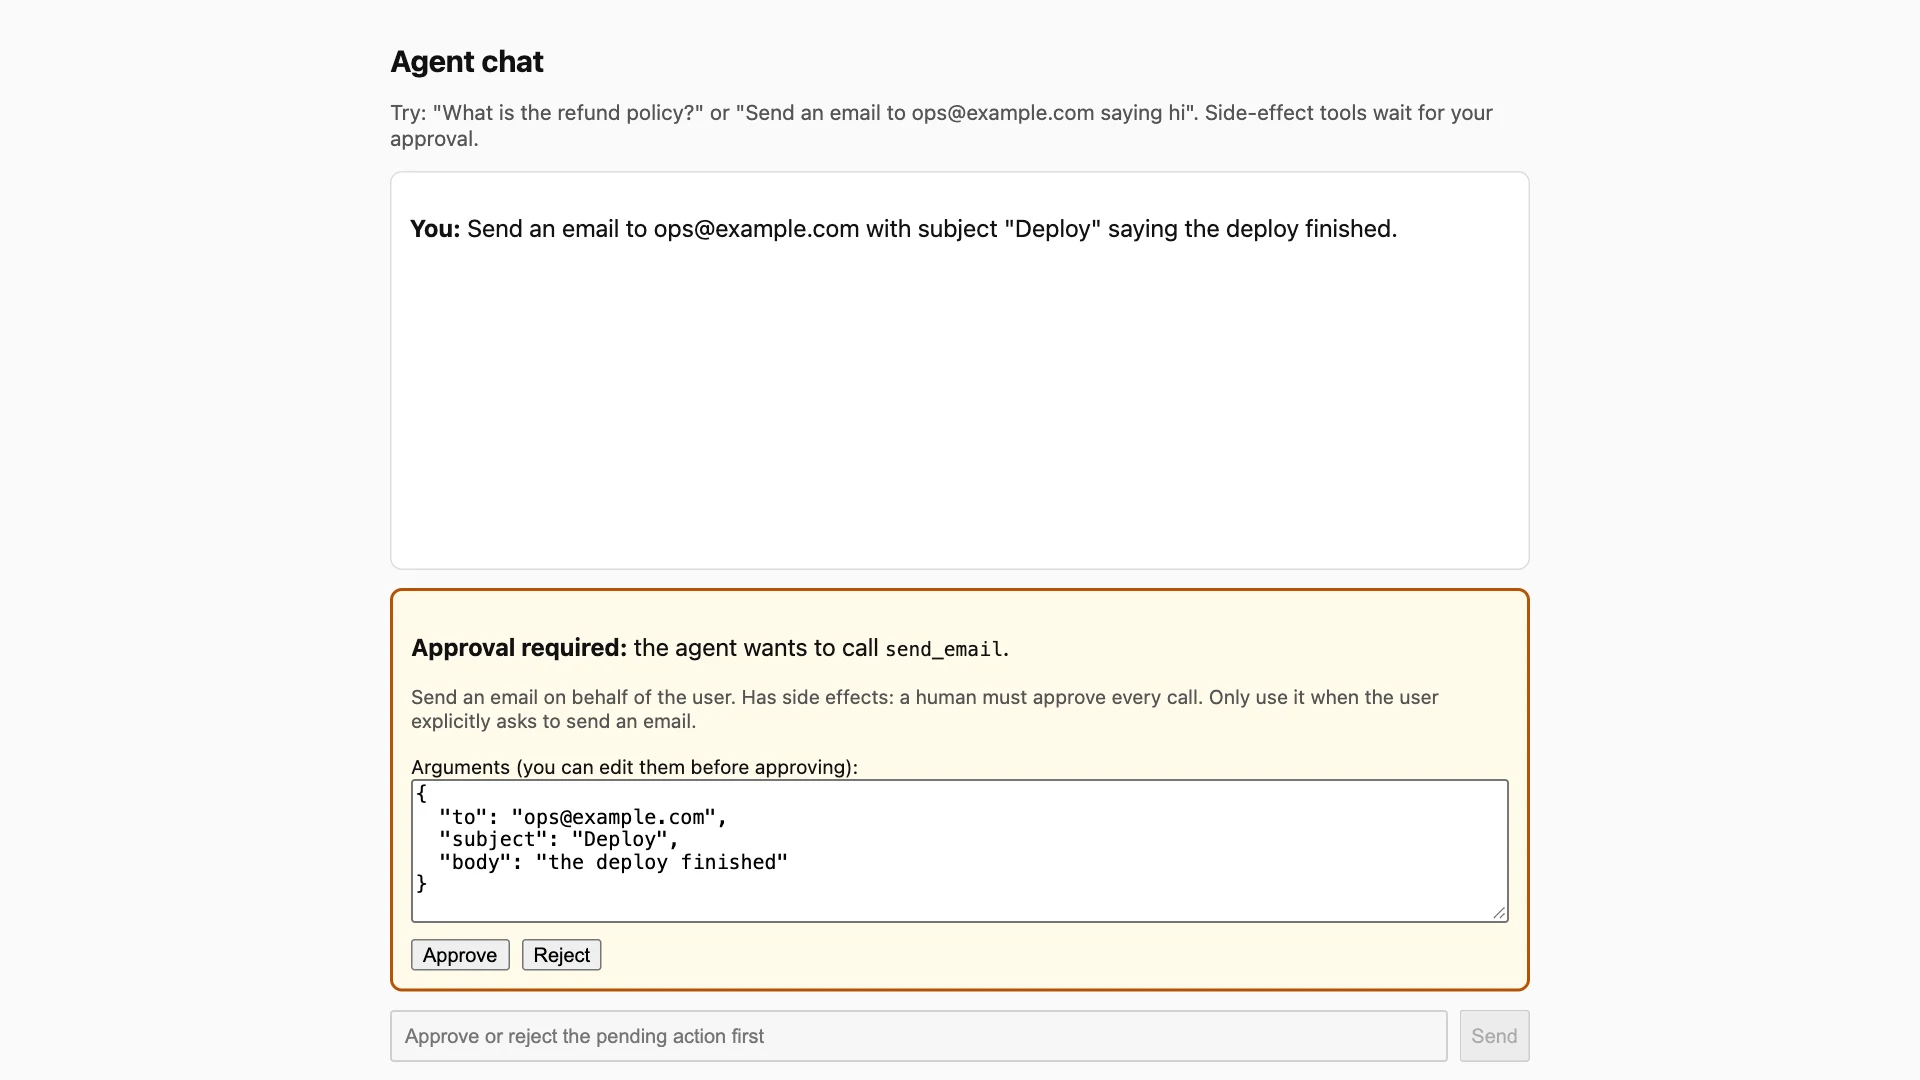
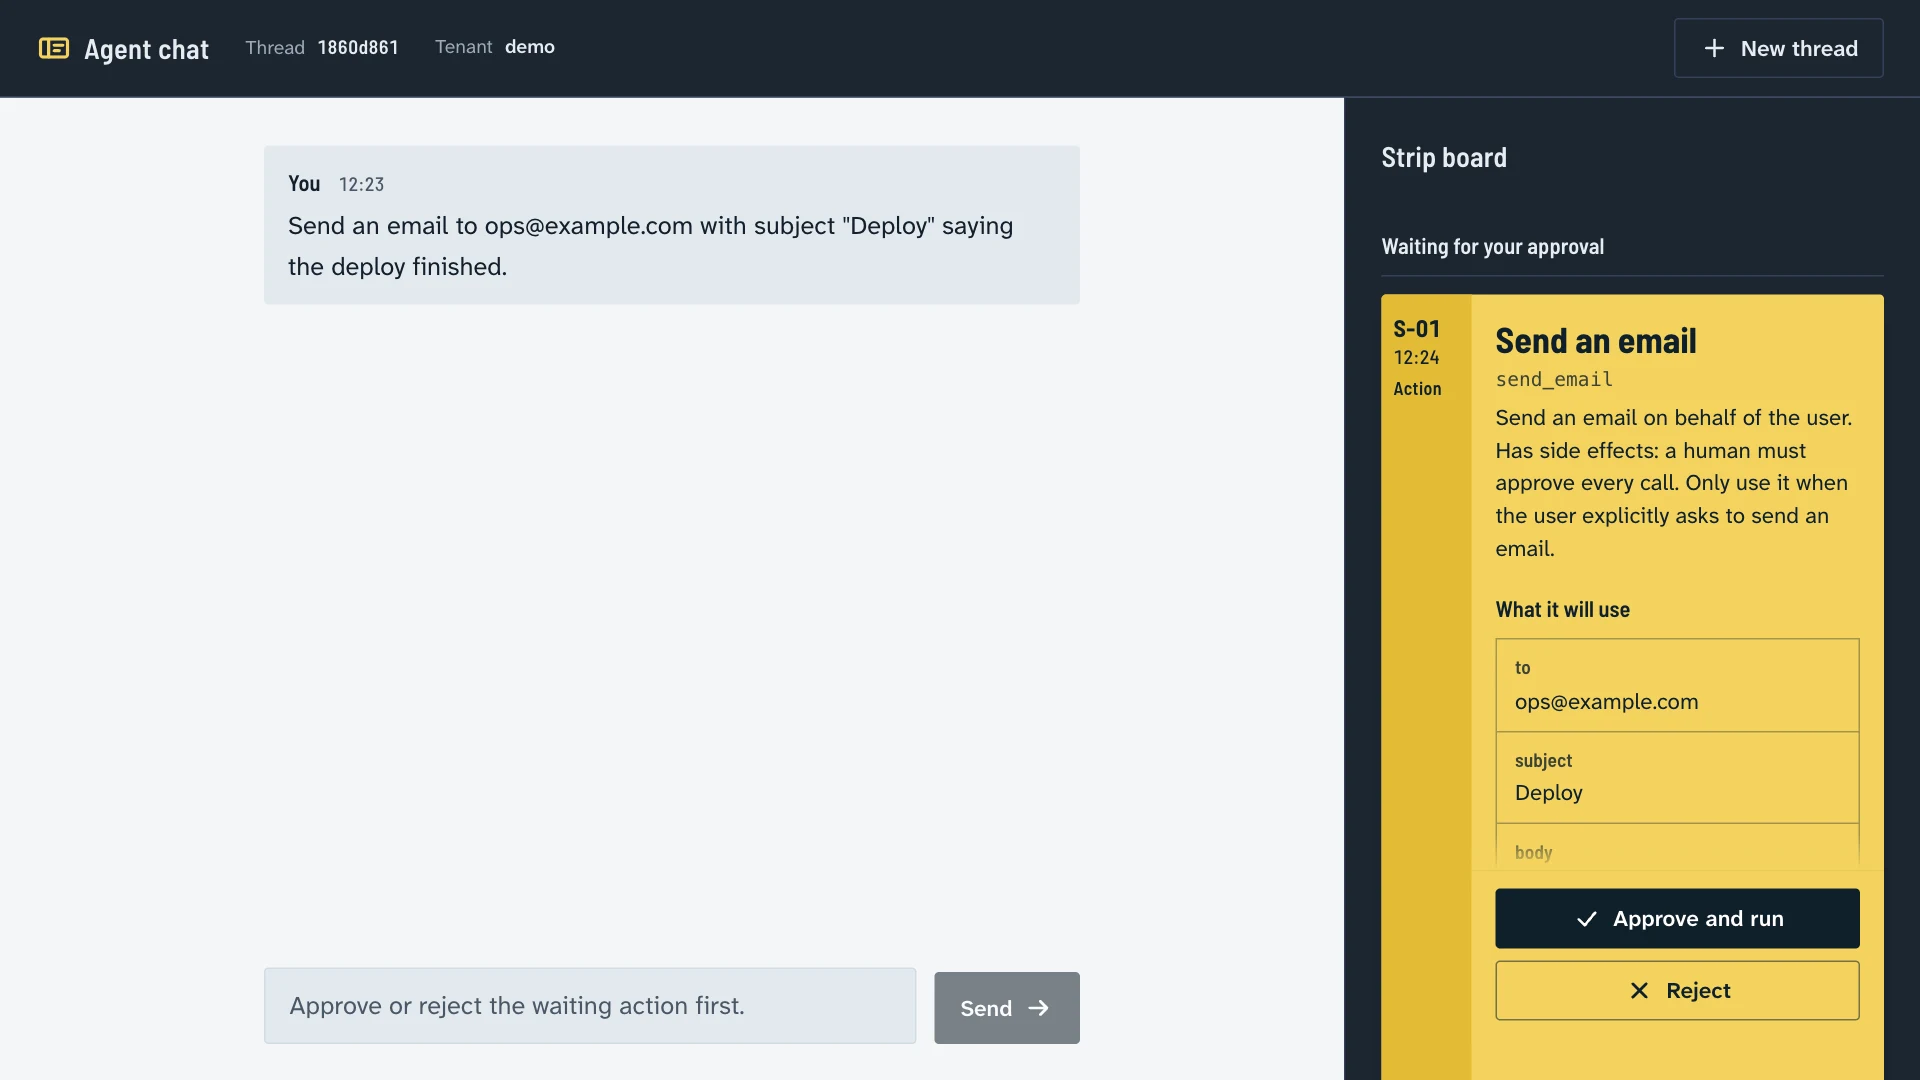
langgraph-nestjs-template: screenshot della nuova chat
Le schermate della chat sono rifatte sull'interfaccia "clearance strips"
(commit 831280d del template), con risposte vere di un modello locale:
email in attesa di approvazione nel pannello laterale, ricerca nei
documenti senza conferma. La schermata dell'approvazione diventa anche
la copertina del progetto; testi alternativi aggiornati.

diff --git a/src/content/projects.ts b/src/content/projects.ts
@@ -319,16 +319,16 @@ export const projects: Project[] = [
       {
         name: { it: "Approvazione prima di agire", en: "Approval before acting" },
         tags: "LangGraph · interrupt",
-        text: { it: "Quando l'agente vuole usare uno strumento con effetti, come l'invio di una email, il grafo si ferma e la chat mostra la chiamata. Gli argomenti si possono correggere prima di approvare, e un lock per conversazione impedisce che una doppia approvazione la esegua due volte.", en: "When the agent wants to use a tool with side effects, such as sending an email, the graph stops and the chat shows the call. The arguments can be edited before approving, and a per-conversation lock keeps a double approval from running it twice." },
+        text: { it: "Quando l'agente vuole usare uno strumento con effetti, come l'invio di una email, il grafo si ferma e la chiamata compare nel pannello laterale della chat. Gli argomenti si possono correggere prima di approvare, e un lock per conversazione impedisce che una doppia approvazione la esegua due volte.", en: "When the agent wants to use a tool with side effects, such as sending an email, the graph stops and the call appears in the chat's side panel. The arguments can be edited before approving, and a per-conversation lock keeps a double approval from running it twice." },
         image: "/projects/langgraph-nestjs-template/approval-panel.webp",
-        alt: { it: "La chat Next.js dopo la richiesta di inviare un'email a ops@example.com: un riquadro arancione 'Approval required' indica che l'agente vuole chiamare send_email e mostra gli argomenti to, subject e body in un campo modificabile, con i pulsanti Approve e Reject.", en: "The Next.js chat after asking to email ops@example.com: an orange 'Approval required' panel says the agent wants to call send_email and shows the to, subject and body arguments in an editable field, with Approve and Reject buttons." },
+        alt: { it: "La chat dopo la richiesta di inviare un'email a ops@example.com: nel pannello laterale la scheda gialla \"Send an email\" mostra destinatario, oggetto e testo, con i pulsanti per approvare o rifiutare.", en: "The chat after asking to email ops@example.com: in the side panel, the yellow \"Send an email\" card shows recipient, subject and body, with buttons to approve or reject." },
       },
       {
         name: { it: "Strumenti in sola lettura", en: "Read-only tools" },
         tags: "SSE · Next.js",
         text: { it: "Gli strumenti che leggono soltanto, come la ricerca nei documenti, girano senza chiedere. Il loro output arriva al modello marcato come non affidabile, e la risposta arriva al browser in streaming da un proxy che tiene la chiave API sul server.", en: "Tools that only read, such as document search, run without asking. Their output reaches the model marked as untrusted, and the answer streams to the browser through a proxy that keeps the API key on the server." },
         image: "/projects/langgraph-nestjs-template/chat-answer.webp",
-        alt: { it: "La chat Next.js con la domanda 'What is the refund policy?', la riga 'Tool search_docs: success' e la risposta dell'agente: rimborso entro 30 giorni dall'acquisto, elaborato entro 5 giorni lavorativi.", en: "The Next.js chat with the question 'What is the refund policy?', the line 'Tool search_docs: success' and the agent's answer: refunds within 30 days of purchase, processed within 5 business days." },
+        alt: { it: "La chat con la domanda sulla politica di rimborso: l'agente ha cercato nei documenti senza chiedere conferma, la ricerca compare nel registro a destra e la risposta indica 30 giorni per chiedere il rimborso.", en: "The chat answering a question about the refund policy: the agent searched the documents without asking, the search shows up in the log on the right and the answer gives 30 days to request a refund." },
       },
       {
         name: { it: "Clienti separati, con limiti", en: "Separate customers, with limits" },
@@ -360,8 +360,8 @@ export const projects: Project[] = [
     cover: {
       image: "/projects/langgraph-nestjs-template/cover.webp",
       alt: {
-        it: "Terminale: pnpm eval riproduce le risposte registrate, punteggio 1.00, e l'azione send_email si ferma in attesa di approvazione",
-        en: "Terminal: pnpm eval replays recorded responses, score 1.00, and the send_email action pauses for approval",
+        it: "La chat dell'agente con un'email in attesa di approvazione nel pannello laterale.",
+        en: "The agent chat with an email waiting for approval in the side panel.",
       },
     },
     repo: "https://github.com/massimiliano-dev/langgraph-nestjs-template",
